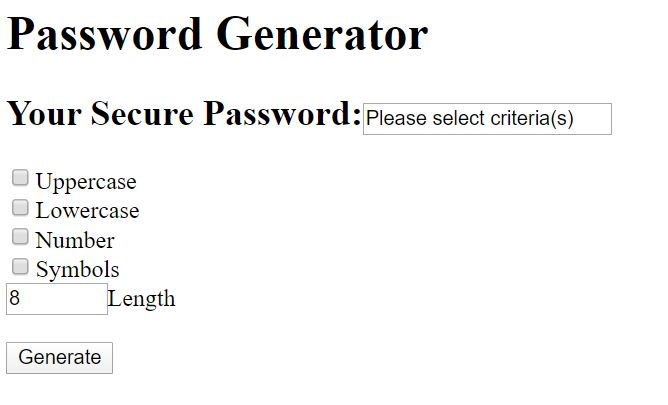
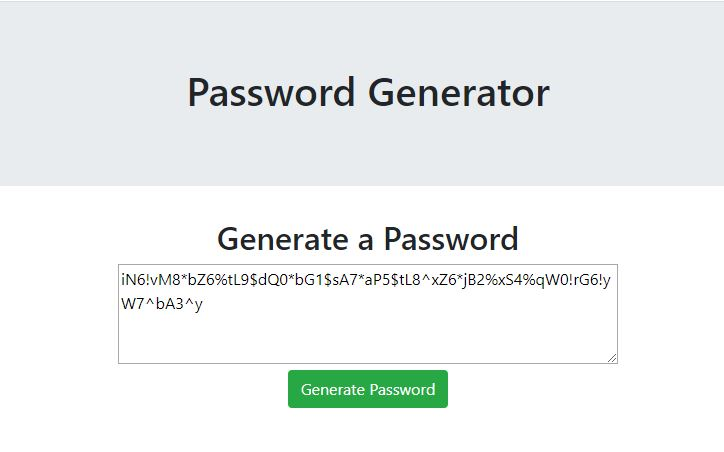
added a little flavor to the html

diff --git a/index.html b/index.html
@@ -4,18 +4,24 @@
     <meta charset="UTF-8" />
     <meta name="viewport" content="width=device-width, initial-scale=1.0" />
     <meta http-equiv="X-UA-Compatible" content="ie=edge" />
+    <link rel="stylesheet" href="https://stackpath.bootstrapcdn.com/bootstrap/4.4.1/css/bootstrap.min.css" integrity="sha384-Vkoo8x4CGsO3+Hhxv8T/Q5PaXtkKtu6ug5TOeNV6gBiFeWPGFN9MuhOf23Q9Ifjh" crossorigin="anonymous">
     <script type="text/javascript" src="java.js"></script>
     <title>Password Generator</title>
   </head>
   <body>
     <header>
-      <h1>Password Generator</h1>
+      <div class="jumbotron jumbotron-fluid">
+        <div class="container">
+          <h1 class="display-8" style="text-align: center;">Password Generator</h1>
+          
+        </div>
+      </div>
     </header>
-    <div class="container">
+    <div class="container" style="text-align: center;">
       <div class="container-body">
         <h2 class="title">Generate a Password</h2>
-        <textarea readonly id="password" placeholder="Your Secure Password" aria-label="Generated Password"></textarea><br>
-        <button type="button" id="generate" >Generate Password</button>
+        <textarea readonly id="password" style="width: 500px; height: 100px;" placeholder="Your Secure Password" aria-label="Generated Password"></textarea><br>
+        <button type="button" class="btn btn-success" id="generate" >Generate Password</button>
         
       </div>
     </div>

diff --git a/README.md b/README.md
@@ -2,7 +2,7 @@ Unit 03 JavaScript Homework: Password Generator
 
 Description
 
-This application is used to generate a random password, dependent on the criteria(s) selected by the end user. The end user is prompted to enter the length of their password, ranging from 8-128. They also are prompted to confirm which criteria's they woud like. Once all that information is entered, the end user can git generate and a random password string that matches the criteria the end user entered will pop up. 
+This application is used to generate a random password, dependent on the criteria(s) selected by the end user. The end user is prompted to enter the length of their password, ranging from 8-128. They also are prompted to confirm which criteria's they woud like. Once all that information is entered, the end user can hit generate and a random password string that matches the criteria the end user entered will pop up. 
 
 ![screenshot](./assets/needcriteria.JPG)
 
